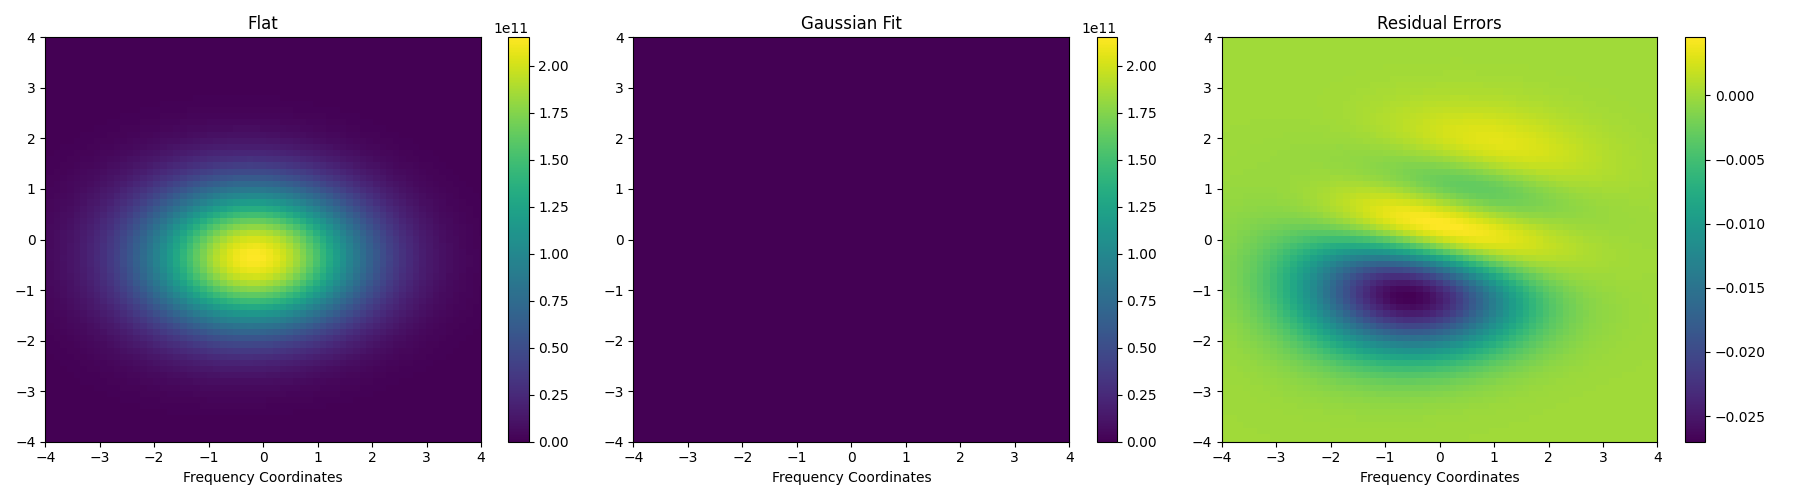
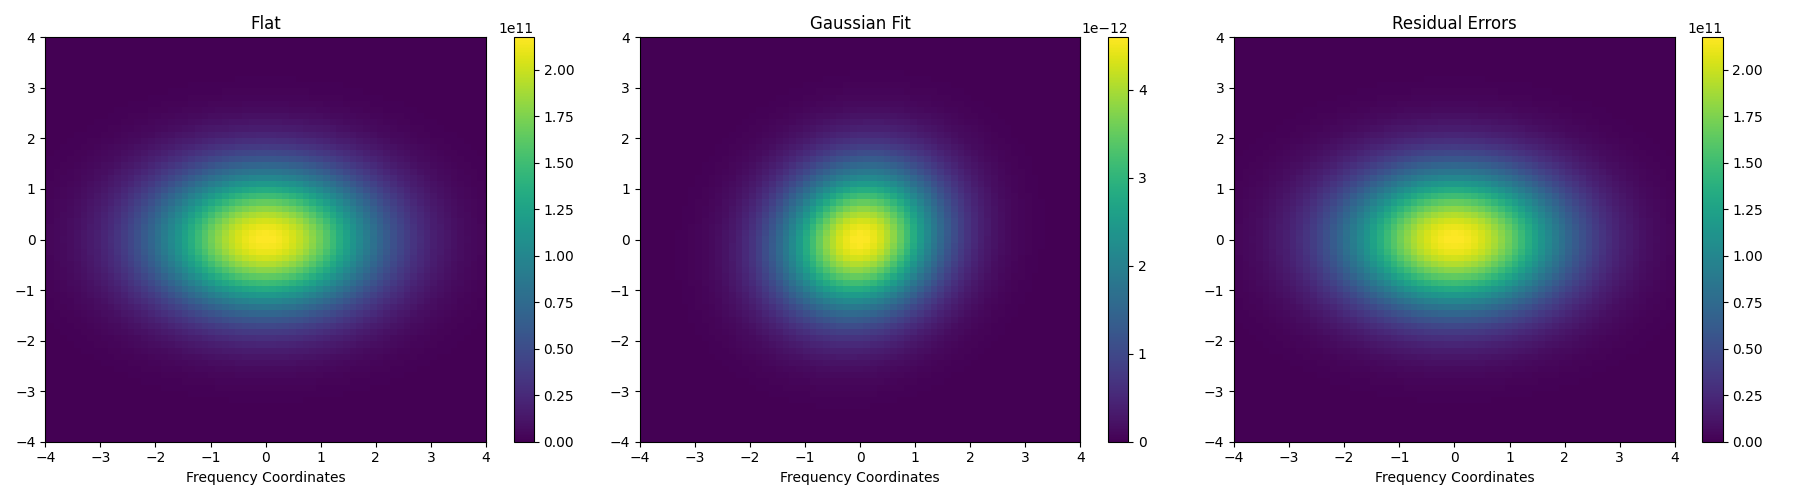
updates to gaussian creation and plot

diff --git a/BICEP_MIRROR/Physical_optics_sim.py b/BICEP_MIRROR/Physical_optics_sim.py
@@ -251,20 +251,56 @@ def fraunhofer(N_mirror,theta, k, near_grid, mirror_coord):
 
     return obs_plane, normalized_integral, normalized_peak, x_limit_deg, y_limit_deg, X2, Y2
 
-def gaussian_fit(xy, omega, mu_x, mu_y, r_x2, r_y2, r_xy2):
-    x, y = xy
+def gaussian_fit(M, omega, mu_x, mu_y, xx, yy, xy):
+    x, y = M
+    dx = x - mu_x
+    dy = y - mu_y
 
+    #determinatnt
+    det = xx * yy - xy**2
+
+    a = yy / det
+    b = -xy / det
+    c = xx / det
+    
     # Matrix expansion (precision matrix)
-    exponent = -0.5 * (r_x2 * (x - mu_x)**2 + 2 * r_xy2 * (x - mu_x) * (y - mu_y) + r_y2 * (y - mu_y)**2)
+    exponent = -0.5 * (a * dx**2 + 2 * b * dx * dy + c * dy**2)
     
     # 1/omega amplitude multiplier !!!!!! might just need to be omega instead of divided by omega
-    intensity_difference = ((1 / omega) * np.exp(exponent)).ravel()
+    intensity_difference = omega * np.exp(exponent)
 
     return intensity_difference
 
-def plot_2d_gaussian(type_of_mirror_analysis,initial_thing_to_plot, X2, Y2, fit_map_2d, residual_map, save_path):
+def plot_2d_gaussian(type_of_mirror_analysis,initial_thing_to_plot, X2, Y2, fit_map_2d, residual_map, popt, save_path):
     #plotting 2d gaussian fit to the normalized integral difference
     fig, axes = plt.subplots(1, 3, figsize=(18, 5))
+
+    #extracting covariance elements
+    optimal_xx = popt[3]
+    optimal_yy = popt[4]
+    optimal_xy = popt[5]
+
+    #get covariance matrix and eigenvalues
+    cov_matrix = np.array([[optimal_xx, optimal_xy],
+                           [optimal_xy, optimal_yy]])
+    eigenvalues, eigenvectors = np.linalg.eigh(cov_matrix)
+
+    #unwarped beam widths
+    true_x2 = eigenvalues[0]
+    true_y2 = eigenvalues[1]
+
+    dominant_vector = eigenvectors[:,1]
+    tilt_angle_degree = np.degrees(np.arctan2(dominant_vector[1],dominant_vector[0]))
+    #saving 6 data parameters
+    with open(data_name, "w") as file:
+        file.write(f"Peak amplitude (1/omega): {1.0 / optimized_omega:.5f}\n")
+        file.write(f"Center shift: (X: {opt_mu_x:.4f}, Y: {opt_mu_y:.4f})\n")
+        file.write(f"True physical widths (Tilt-corrected): \n")
+        file.write(f"r_x^2 = {true_x2:.2f}, r_y^2 = {true_y2:.4f}\n")
+        file.write(f"Beam tilt angle: {tilt_angle_degree:.2f}\n")
+        file.write(f"Covariance parameters: xx = {optimal_xx:.4f}, yy = {optimal_yy:.4f}, xy = {optimal_xy:.4f}\n")
+
+    print(f"Data saved to: {data_name}")
 
     #uniform color scale
     v_min = np.min(initial_thing_to_plot)
@@ -284,7 +320,7 @@ def plot_2d_gaussian(type_of_mirror_analysis,initial_thing_to_plot, X2, Y2, fit_
     axes[1].set_xlabel("Frequency Coordinates")
     fig.colorbar(im2, ax=axes[1])
     axes[1].set_xlim(-4,4) #!!!!!!!!!!! check that these arent skewing the data (can use .min .max instead)
-    axes[1].set_ylim(-6,6)
+    axes[1].set_ylim(-4,4)
 
     #residuals (raw - gaussian)
     im3 = axes[2].pcolormesh(X2, Y2, residual_map, shading='auto') 
@@ -488,11 +524,11 @@ peak_height = np.max(I_far_intensity)
 omega_guess = 1.0 / peak_height if peak_height != 0 else 1.0
 
 #curve fit 
-popt1, pcov1 = curve_fit(gaussian_fit, xdata=xy_input, ydata = ydata, p0=[omega_guess,0,0,1,1,0])
+popt1, pcov1 = curve_fit(gaussian_fit, xdata=xy_input, ydata = ydata, p0=[omega_guess,0,0,1,1,0.1])
 #optimized guess
-popt, pcov = curve_fit(gaussian_fit, xdata=xy_input, ydata = ydata, p0=[popt1])
+popt, pcov = curve_fit(gaussian_fit, xdata=xy_input, ydata = ydata, p0=popt1)
 #then extract
-optimized_omega, opt_mu_x, opt_mu_y, opt_r_x2, opt_r_y2, opt_r_xy2 = popt
+optimized_omega, opt_mu_x, opt_mu_y, opt_xx, opt_yy, opt_xy = popt
 
 #manually name for rewrite error
 type_of_mirror_analysis = "Flat"
@@ -506,14 +542,6 @@ data_run_name = f"fresnel_near_field_N{N}N_mirror{N_mirror}_theta1{theta_1}_thet
 data_name = os.path.join(data_folder, data_run_name)
 
 # os.makedirs(data_name, exist_ok=True)
-
-#saving 6 data parameters
-with open(data_name, "w") as file:
-    file.write(f"Peak amplitude (1/omega): {1.0 / optimized_omega:.5f}\n")
-    file.write(f"Center shift: (X: {opt_mu_x:.4f}, Y: {opt_mu_y:.4f})\n")
-    file.write(f"r_x^2 = {opt_r_x2:.2f}, r_y^2 = {opt_r_y2:.2f}, r_xy^2: {opt_r_xy2:.4f}\n")
-
-print(f"Data saved to: {data_name}")
 
 #optimized parameters then reshape
 fit_map_flat = gaussian_fit(xy_input, *popt)
@@ -546,7 +574,7 @@ print(f"Graphs saved to: {folder_name}")
 #!!! edit made to accomadate just 2d gaussian for flat mirror
 tasks = [
 #lambda folder_name instead??? for saving error
-(lambda path: plot_2d_gaussian(type_of_mirror_analysis, far_field, X2, Y2, fit_map_2d, residual_map, path), "Gaussian"),
+(lambda path: plot_2d_gaussian(type_of_mirror_analysis, far_field, X2, Y2, fit_map_2d, residual_map, popt, path), "Gaussian"),
 
           
 (lambda path: plot_integral_and_peak_normalization(x_min, x_max, y_min, y_max, difference_fft_integral,difference_fft_peak, path), "Normalization"),

diff --git a/BICEP_MIRROR/Documentation/documentation.tex b/BICEP_MIRROR/Documentation/documentation.tex
@@ -343,6 +343,9 @@ Scalar diffraction theory
 
 Coordinate rotation matrix to fix FFT stretching in gaussian elliptical
 Need to rotate the plane in the frequency domain, due to FFT
+Created from tilt in mirror plane. 
+
+
 % Global scaling for FFT:
 % \begin{equation*}
 %     \Delta f_x = \frac{1}{N \cdot \Delta x}
